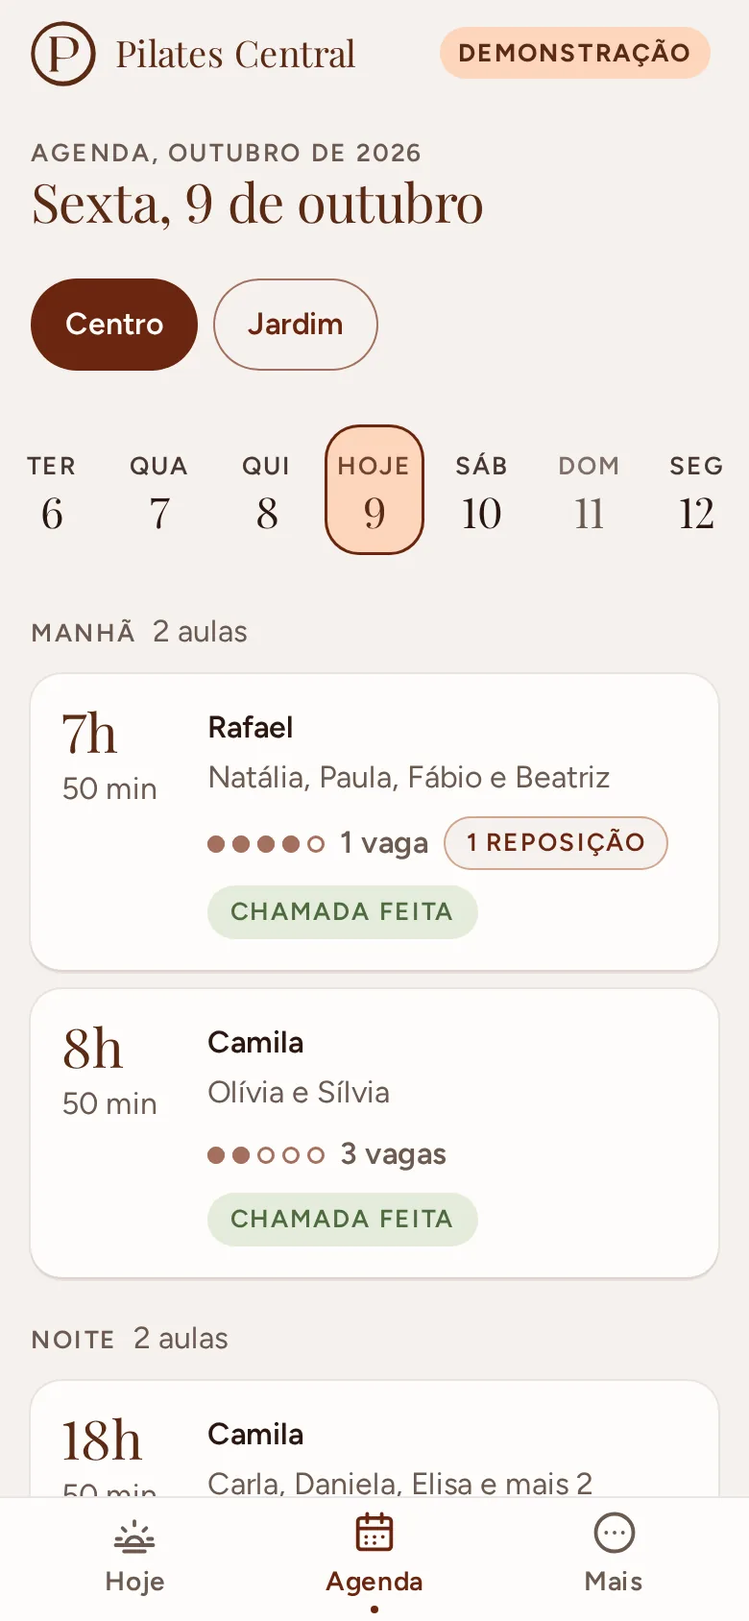
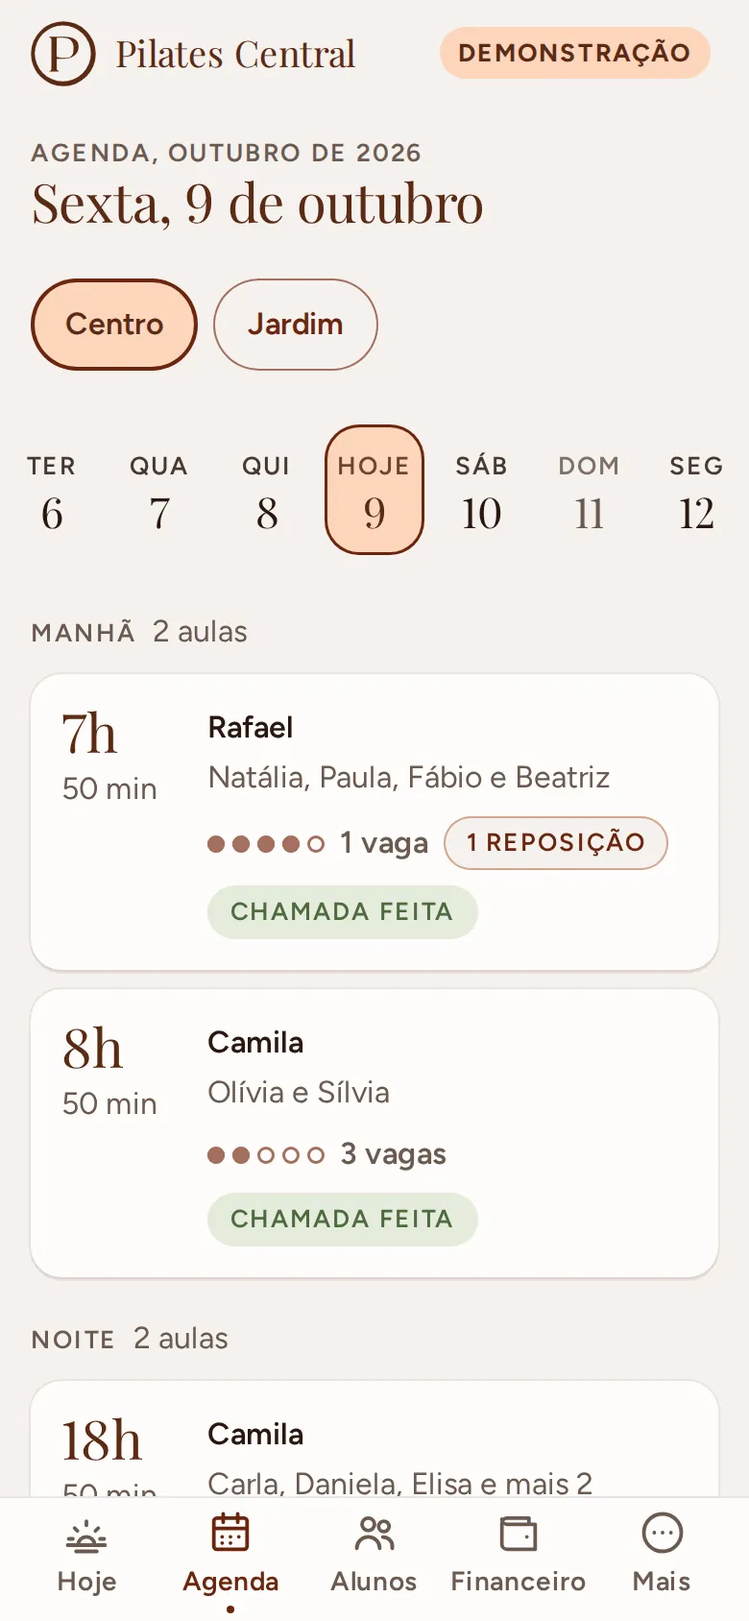
readme, roteiro e capturas da gestão do estúdio, com as medições novas

diff --git a/README.md b/README.md
@@ -1,7 +1,8 @@
 # Pilates Central (web app)
 
-Agenda, presença e reposição de aulas para um estúdio pequeno de pilates em Campinas, feito
-para a dona e os professores usarem no celular, com uma mão, entre uma aula e outra.
+Gestão de um estúdio pequeno de pilates em Campinas: agenda, presença, reposição, alunos, turmas
+e financeiro, feito para a administração e os professores usarem no celular, com uma mão, entre
+uma aula e outra.
 
 **Demonstração:** https://kohijow.github.io/pilates-central-web/
 
@@ -11,56 +12,115 @@ para a dona e os professores usarem no celular, com uma mão, entre uma aula e o
   <img src="docs/telas/agenda.webp" alt="Agenda do dia com vagas em pontos" width="200">
   <img src="docs/telas/chamada.webp" alt="Chamada da aula numa folha que sobe de baixo" width="200">
 </p>
+<p>
+  <img src="docs/telas/alunos.webp" alt="Lista de alunos com busca, filtros e o destaque de quem faltou várias seguidas" width="200">
+  <img src="docs/telas/ficha.webp" alt="Ficha do aluno com plano, turmas fixas e WhatsApp" width="200">
+  <img src="docs/telas/reposicoes.webp" alt="Central de reposição com o que vence primeiro no topo" width="200">
+  <img src="docs/telas/encaixe.webp" alt="Folha de encaixe com as aulas que têm vaga" width="200">
+</p>
+<p>
+  <img src="docs/telas/turmas.webp" alt="Grade da semana por unidade" width="200">
+  <img src="docs/telas/financeiro.webp" alt="Financeiro do mês: recebido, previsto e em aberto" width="200">
+  <img src="docs/telas/financeiro-grafico-escuro.webp" alt="Gráfico dos últimos seis meses no tema escuro" width="200">
+  <img src="docs/telas/equipe.webp" alt="Equipe com o papel de cada pessoa" width="200">
+</p>
 
 ## O que é
 
 O estúdio não precisa de app de treino: precisa saber quem vem em cada aula, quem faltou, quem
-avisou e onde encaixar a reposição, por unidade. Os alunos fazem duas ou três aulas por semana em
-horários fixos; quando alguém avisa que não vem, sai daquele dia e é encaixado em outro horário
-com vaga. Com isso a dona acompanha a frequência e, na próxima etapa, as mensalidades.
+avisou e onde encaixar a reposição, por unidade, e com isso acompanhar o que entra de dinheiro.
+Os alunos fazem duas ou três aulas por semana em horários fixos; quando alguém avisa que não vem,
+sai daquele dia e é encaixado em outro horário com vaga.
 
 É um **web app instalável** (PWA): abre no Safari do iPhone e no Chrome do Android, vai para a
 tela inicial sem loja e funciona sem internet no modo demonstração.
 
-### O que já faz (etapa 1)
+### O que faz
 
 - **Hoje:** próxima aula (ou a que está acontecendo), quantos alunos são esperados, quem avisou
   que não vem e as reposições do dia.
-- **Agenda:** faixa de dias, unidade, aulas por manhã, tarde e noite, com horário, professor,
-  alunos e vagas em pontos (com o número escrito ao lado). Desliza com o dedo para trocar de dia.
-- **Chamada:** tocar na aula abre a chamada numa folha que sobe de baixo: presente, faltou ou
-  avisou, com retorno na hora e "Desfazer". "Todos presentes" marca a turma num toque.
-- **Reposição:** avisar falta com antecedência gera um crédito; o crédito só entra em aula da
-  mesma unidade, dentro da validade e com vaga.
-- **Por papel:** a dona vê as duas unidades, cancela aula (feriado ou imprevisto) e pode dar
-  reposição a quem avisou em cima da hora; o professor vê as próprias aulas (ou a unidade toda).
-- **Ajustes:** tema claro, escuro ou automático; como instalar no celular; recomeçar a demonstração.
+- **Agenda e chamada:** faixa de dias, unidade, aulas por manhã, tarde e noite, vagas em pontos
+  (com o número escrito). Tocar na aula abre a chamada numa folha: presente, faltou ou avisou,
+  com "Desfazer"; "Todos presentes" num toque. Quem avisou no prazo ganha crédito e, ali mesmo,
+  "Encaixar em outro horário" mostra as aulas com vaga.
+- **Alunos:** lista com busca (sem acento, ou pelo final do telefone), filtro por unidade e
+  situação, e um destaque discreto para quem faltou várias seguidas. A ficha mostra plano, turmas
+  fixas (com aviso quando o plano 2x ou 3x não bate com as turmas), frequência do mês, créditos
+  de reposição, mensalidade e pagamentos, e atalhos para WhatsApp e ligação. Cadastro e edição
+  com validação em português; pausar (guarda o lugar nas turmas) e arquivar (libera o lugar).
+- **Turmas:** grade da semana por unidade, com lugares e frequência do mês. Criar turma, mudar
+  horário, lugares e professor, colocar e tirar alunos fixos respeitando a capacidade e o horário
+  de cada aluno, encerrar turma (o histórico fica).
+- **Reposição:** central com quem tem crédito (o que vence primeiro no topo, com "vence em 3
+  dias"), reposições marcadas e créditos vencidos. "Encaixar" mostra só as aulas com vaga da
+  unidade nos próximos 14 dias; escolher, confirmar e o aluno aparece na aula de destino como
+  reposição. Tudo com "Desfazer".
+- **Financeiro** (só a administração): mês por unidade com previsto, recebido, em aberto e alunos
+  ativos; quem está em aberto (atrasados primeiro) com lembrete pronto pelo WhatsApp e lançamento
+  rápido (valor sugerido pelo plano, forma preferida já marcada); totais por forma de pagamento
+  (Pix, cartões, dinheiro, transferência, Gympass, TotalPass, outro); gráfico dos últimos seis
+  meses; planilha do mês em CSV.
+- **Mais:** perfil, tema, instalar no celular e, para a administração, nome e WhatsApp do estúdio,
+  regras de reposição (antecedência do aviso, validade, limite por mês, a partir de quantas
+  ausências seguidas destacar), unidades e equipe.
+
+### Quem vê o quê
+
+| | Administração | Professor |
+|---|:-:|:-:|
+| Agenda, chamada, encaixar reposição | sim | sim |
+| Alunos e turmas | vê e edita | vê, sem valores |
+| Financeiro | sim | a aba não existe |
+| Cancelar aula, dar reposição fora do prazo | sim | não |
+| Estúdio, regras, unidades, equipe | sim | só lê as regras |
+
+"Administração" é quem responde pela conta (aparece como **Responsável**) e quem administra junto,
+com o mesmo acesso ao dia a dia, financeiro incluído. Só quem é responsável convida, promove ou
+tira alguém da administração e passa a conta para outra pessoa. Nesta etapa a separação é feita
+na interface; no banco ela vira regra do Firestore na etapa 3 (ver [roteiro](docs/roteiro.md)).
 
 ## Como usar a demonstração
 
-1. Abra o link e escolha **Explorar como administração** ou **Explorar como professor**.
-2. Os dados são fictícios (nomes genéricos, e-mails em example.com) e ficam guardados só no seu
-   aparelho. Em **Mais > Recomeçar demonstração** tudo volta ao começo.
+1. Abra o link e escolha **Explorar como administração** ou **Explorar como professor** (ou
+   **Entrar como outra pessoa da equipe** para ver a administração sem ser a responsável).
+2. Os dados são fictícios (nomes genéricos, e-mails em example.com, telefones 55 11 90000-00xx)
+   e ficam guardados só no seu aparelho. Em **Mais > Recomeçar demonstração** tudo volta ao começo.
 3. Para ver um dia cheio a qualquer hora, fixe o relógio pela URL:
    `?agora=2026-10-09T10:00` (sexta-feira, 10h em Campinas). `?atraso=1500` simula rede lenta.
+4. Bons caminhos: **Alunos > Reposições > Encaixar**; **Financeiro > Lançar** num aluno em aberto;
+   **Agenda > 18h > Avisou > Encaixar em outro horário**; **Mais > Equipe > Passar a conta**.
 
 ## Decisões
 
-- **Web app em vez de app de loja.** A dona e muitos alunos usam iPhone; um PWA instala pela
-  tela inicial, atualiza sozinho e não precisa de conta de desenvolvedor nem revisão de loja.
+- **Web app em vez de app de loja.** A administração e muitos alunos usam iPhone; um PWA instala
+  pela tela inicial, atualiza sozinho e não precisa de conta de desenvolvedor nem revisão de loja.
 - **Preact com sinais.** API quase igual à do React (que o dono do projeto já usa no React
   Native), com uma fração do tamanho; `@preact/signals` deixa o estado reativo sem biblioteca de estado.
 - **Regras puras, dados atrás de uma interface.** `src/dominio/` não sabe de onde vêm os dados;
   `src/dados/repositorio.ts` é o contrato e hoje há o adaptador de demonstração (localStorage).
-  O do Firebase entra na etapa 2 sem mexer em tela nem em regra.
+  O do Firebase entra sem mexer em tela nem em regra.
 - **A aula é derivada da turma.** Só as exceções são gravadas (presenças, avisos, reposições,
-  cancelamento). Detalhes em [docs/modelo-de-dados.md](docs/modelo-de-dados.md).
-- **Relógio do estúdio.** Datas são texto no fuso de Campinas; um celular com outro fuso não
-  embaralha a agenda.
-- **Desfazer em vez de confirmar.** Marcar presença não pergunta "tem certeza?": aplica na hora e
-  oferece "Desfazer", que reverte só o que aquela ação mudou.
-- **Permissões numa tabela só** (`src/dominio/permissoes.ts`), que a tela consulta e as regras
-  do Firestore vão seguir.
+  cancelamento). Quem entra numa turma entra a partir daquele dia (`fixosDesde`): as aulas que já
+  passaram não mudam. Detalhes em [docs/modelo-de-dados.md](docs/modelo-de-dados.md).
+- **O financeiro mora fora do cadastro do aluno.** Mensalidade, forma preferida e vencimento
+  ficam em `FinanceiroDoAluno`: no Firestore uma regra libera ou nega o documento inteiro, então o
+  que o professor não pode ler tem que estar em outro documento. O professor nunca pede esses dados.
+- **Papéis sem gênero.** "Responsável" e "Administração" em vez de "dona": quem cuida da conta
+  pode ser qualquer pessoa da família, e mais de uma pessoa administra. As regras da equipe
+  (`src/dominio/equipe.ts`) recebem quem está agindo e recusam as tentativas de escalada, com teste
+  para cada uma.
+- **Desfazer em vez de confirmar.** Marcar presença, encaixar, tirar da turma ou lançar pagamento
+  aplica na hora e oferece "Desfazer", que reverte só o que aquela ação mudou, calculado na hora
+  de desfazer. Confirmação só para o que tira gente do lugar (arquivar, encerrar turma, passar a
+  conta).
+- **Telas empilhadas com "Voltar" escrito.** O app instalado no iPhone não tem o botão de voltar
+  do navegador; ficha e formulários abrem por cima da lista (com histórico, então o "voltar" do
+  Android também funciona) e a lista volta para onde estava.
+- **Escolhas nativas onde ajudam.** Data, hora e listas usam o seletor do próprio celular (a roda
+  do iPhone); números pequenos (lugares, duração, dias) têm botões de menos e mais, sem teclado.
+- **Uma terracota por tela.** Filtros e escolhas ficaram em pêssego com contorno; o terracota
+  sólido é só da ação principal (com filtros e botão principal juntos, três blocos terracota
+  disputavam a atenção).
 
 ### Movimento
 
@@ -70,54 +130,64 @@ A fluidez no celular é requisito, não enfeite. Regras: só `transform` e `opac
 durante cada transição e reprovam qualquer animação de outra propriedade.
 
 Medições no Chromium (perfil Pixel 7), p95 dos intervalos entre quadros durante a animação
-(60 Hz = 16,7 ms). Com a CPU 4x mais lenta, duas rodadas, e à parte o quadro em que a tela nova
-é montada e pintada, antes de a animação começar:
+(60 Hz = 16,7 ms):
 
 | Transição | Normal | CPU 4x mais lenta | Quadro de montar (CPU 4x) |
 |---|---|---|---|
-| Troca de aba | 16,8 ms | 16,8 a 33,3 ms | 100 a 150 ms |
-| Troca de dia pela faixa | 16,8 ms | 16,8 ms | 33 a 67 ms |
-| Troca de dia com o dedo | 16,7 ms | 16,7 a 16,8 ms | 16,7 ms |
-| Abrir a folha da aula | 16,7 ms | 33,3 a 33,4 ms | 50 a 67 ms |
-| Marcar presença e aviso flutuante | 16,8 ms | 16,7 a 16,8 ms | 50 a 83 ms |
-| Fechar a folha arrastando | 16,8 ms | 16,8 a 33,3 ms | 16,7 ms |
-| Troca de tema (View Transition) | 16,8 ms | 16,7 a 33,3 ms | 33 a 50 ms |
+| Troca de aba | 16,8 ms | 16,7 a 16,8 ms | 83 a 100 ms |
+| Troca de dia pela faixa | 16,7 ms | 16,7 a 16,8 ms | 16,7 ms |
+| Troca de dia com o dedo | 16,8 ms | 16,8 ms | 16,7 ms |
+| Abrir a folha da aula | 16,8 ms | 16,7 a 16,8 ms | 50 ms |
+| Marcar presença e aviso flutuante | 16,8 ms | 16,7 a 16,8 ms | 33 a 50 ms |
+| Fechar a folha arrastando | 16,8 ms | 16,8 ms | 16,7 ms |
+| Troca de tema (View Transition) | 16,8 ms | 16,7 a 16,8 ms | 17 a 33 ms |
+| Abrir a ficha do aluno | 16,7 ms | 16,8 ms | 83 ms |
+| Voltar da ficha para a lista | 16,7 ms | 16,7 ms | 83 a 100 ms |
+| Troca de seção (Alunos, Turmas, Reposições) | 16,7 ms | 16,8 ms | 50 ms |
+| Abrir a folha de encaixe | 16,8 ms | 16,8 ms | 16,7 ms |
+| Escolher a aula no encaixe | 16,7 ms | 16,8 ms | 16,7 ms |
+| Troca de mês no financeiro (colunas crescem) | 16,7 ms | 16,8 a 33,3 ms | 50 ms |
+
+Com a CPU 4x mais lenta foram duas rodadas; "quadro de montar" é o quadro em que a tela nova é
+montada e pintada, antes de a animação começar. Os vídeos das transições (`GRAVAR=1`) foram
+olhados quadro a quadro nos dois motores.
 
 Medido no contêiner do Playwright, num servidor ARM de 4 núcleos dividido com outros processos.
 No WebKit desse contêiner não há GPU e tudo é pintado na CPU: até a régua (uma camada sem nada do
-app animando só transform e opacity) deu p95 entre 50 e 190 ms conforme a carga da máquina. Lá os
+app animando só transform e opacity) dá p95 de 50 a 190 ms conforme a carga da máquina. Lá os
 tempos ficam registrados no relatório do teste, e o que reprova é animar outra propriedade.
 
-O que as medições mudaram:
+O que as medições mudaram (etapas 1 e 2):
 
-- **Sombra sem desfoque nos cards.** No WebKit, a sombra com desfoque de 24 px do briefing
-  levava a 2,5 s o quadro de pintar uma tela nova; com a sombra tingida sem desfoque (borda de
-  1 px e 2 px embaixo) o mesmo quadro caiu para 250 a 400 ms no mesmo ambiente.
+- **Sombra sem desfoque nos cards.** No WebKit, a sombra com desfoque de 24 px do briefing levava
+  a 2,5 s o quadro de pintar uma tela nova; com a sombra tingida sem desfoque, 250 a 400 ms.
 - **A animação começa depois de pintar.** Em aparelho lento, montar a tela nova pode levar mais
   que um quadro; se a animação começasse junto, o movimento "pularia".
-- **Troca de aba em CSS, não em View Transition.** No Chromium a View Transition teve picos de
-  33 ms e bloqueia o toque enquanto roda; a animação em CSS ficou em 16,8 ms e não bloqueia.
-  A View Transition ficou como melhoria progressiva na troca de tema (Chromium). No WebKit dos
-  testes a captura da tela travou a página por segundos; até ser medida num iPhone de verdade
-  (`?transicao=vista` força), Safari e Firefox trocam o tema sem transição.
-- **Um bloco se move por vez.** A cascata das listas só acontece quando os dados chegam; numa
-  troca de tela ou de dia quem desliza é o bloco inteiro.
-- **Pílula do dia em pêssego.** Com a pílula terracota sólida deslizando, o número do dia sumia
-  por alguns quadros (texto claro sobre o creme); no pêssego o texto é escuro nos dois fundos.
+- **Troca de aba e de tela em CSS, não em View Transition.** No Chromium a View Transition teve
+  picos de 33 ms e bloqueia o toque enquanto roda. Ela ficou só na troca de tema (Chromium); no
+  WebKit dos testes a captura da tela travou a página por segundos, então Safari e Firefox trocam
+  o tema sem transição até a medição num iPhone de verdade (`?transicao=vista` força).
+- **Barras e gráfico por transform.** A barra do recebido e as colunas do gráfico crescem por
+  `scaleX`/`scaleY`, nunca por largura ou altura; a marca da seção escolhida (Alunos, Turmas,
+  Reposições) desliza como a pílula do dia.
+- **Listas longas com "Mostrar todos".** Em aberto, lançamentos e créditos mostram os primeiros e
+  um botão para o resto: menos para pintar de uma vez e menos rolagem com uma mão.
 
 ## Acessibilidade
 
 Pensada para gente de 40+ usando com uma mão: alvos de toque de 48 px ou mais, texto corrido de
-16 px ou mais, contraste de 4,5:1 conferido por teste sobre os próprios tokens de cor (o âmbar
-nunca é texto; o terracota médio só aparece em ícone), estado nunca só por cor (vagas têm número
-escrito, presença tem ícone e rótulo), folha com foco preso e o resto do app inerte, barra de
-abas com rótulo sempre visível.
+16 px ou mais (conferidos por teste em todas as telas, inclusive as de gestão e as folhas),
+contraste de 4,5:1 conferido por teste sobre os próprios tokens de cor (o âmbar nunca é texto; o
+terracota médio só aparece em ícone; as cores do gráfico passam 3:1 sobre o card nos dois temas),
+estado nunca só por cor (vagas têm número escrito, presença tem ícone e rótulo, atraso tem
+palavra), folha com foco preso e o resto do app inerte, formulário que leva o foco ao primeiro
+erro, contador de números lido como spinbutton, gráfico com tabela para leitor de tela.
 
 ## Stack
 
 Vite, TypeScript estrito, Preact, @preact/signals, CSS próprio com variáveis (sem biblioteca de
 componentes), Figtree e Playfair Display servidas pelo próprio site (@fontsource), service worker
-escrito à mão, Vitest e @playwright/test. Firebase (Auth e Firestore, plano gratuito) na etapa 2.
+escrito à mão, Vitest e @playwright/test. Firebase (Auth e Firestore, plano gratuito) na etapa 3.
 
 ## Como rodar
 
@@ -148,8 +218,9 @@ podman run --rm --network host -v "$PWD":/w:Z -w /w --ipc=host \
   mcr.microsoft.com/playwright:v1.60.0-noble npx playwright test
 ```
 
-`LENTO=1` liga a CPU 4x mais lenta no Chromium e `GRAVAR=1` grava vídeo das transições.
-No GitHub Actions cada motor roda num job e, na `main`, o site é publicado no Pages.
+`PORTA=8853` troca a porta (prévia e testes), `LENTO=1` liga a CPU 4x mais lenta no Chromium e
+`GRAVAR=1` grava vídeo das transições. No GitHub Actions cada motor roda num job e, na `main`, o
+site é publicado no Pages.
 
 ## Segurança e privacidade
 
@@ -158,31 +229,40 @@ No GitHub Actions cada motor roda num job e, na `main`, o site é publicado no P
   site; o único script embutido (o que aplica o tema antes da primeira pintura) entra por hash.
 - Os dados de exemplo são fictícios: nomes genéricos, e-mails em example.com, telefones
   55 11 90000-00xx. As fotos do espaço no repositório não têm pessoas.
-- Na etapa 2, os dados reais ficam no Firestore com regras por papel (professor não lê
-  financeiro), testadas no emulador antes de existir projeto real. Nenhuma chave privada no
-  repositório: a configuração web do Firebase é pública por desenho e a proteção são as regras.
+- Observação do aluno é texto livre que só a equipe vê; não há ficha de saúde estruturada.
+- A planilha exportada não deixa nome de aluno virar fórmula no Excel (`=`, `+`, `-` e `@` no
+  começo ganham um apóstrofo).
+- Na etapa 3, os dados reais ficam no Firestore com regras por papel (professor não lê financeiro,
+  administrador não mexe em quem administra), testadas no emulador antes de usar o projeto real.
+  Nenhuma chave privada no repositório: a configuração web do Firebase é pública por desenho e a
+  proteção são as regras.
 
 ## Estrutura
 
 ```
 src/
-  dominio/     regras puras e testadas (agenda, presença, reposição, resumo, pagamentos, permissões)
-  dados/       contrato do repositório, adaptador de demonstração, dados fictícios, estado em sinais
+  dominio/     regras puras e testadas (agenda, presença, reposição, frequência, alunos, turmas,
+               pagamentos, equipe, unidades, permissões)
+  dados/       contrato do repositório, adaptador de demonstração, dados fictícios, estado em
+               sinais, ações de cadastro com desfazer, consultas de frequência
   movimento/   molas, tempos, gestos, animação depois de pintar, retorno de toque
-  componentes/ botão, campo, chip, card, folha inferior, faixa de dias, vagas, avisos, ícones
-  telas/       Entrar, Hoje, Agenda, chamada e Ajustes
-  estilos/     tokens, base, componentes, telas e movimento
+  componentes/ botão, campo, seletor, contador, chip, card, folha inferior, seções, faixa de dias,
+               vagas, avisos, ícones
+  telas/       Entrar, Hoje, Agenda e chamada, Alunos (lista, ficha, cadastro), Turmas,
+               Reposição, Financeiro, Mais (estúdio, regras, unidades, equipe)
+  estilos/     tokens, base, componentes, telas, gestão e movimento
   pwa/         modelo do service worker
-e2e/           testes de ponta a ponta e de fluidez
+e2e/           testes de ponta a ponta, de acessibilidade e de fluidez
 scripts/       plugin do service worker e da política de segurança; geração de ícones
 docs/          roteiro, modelo de dados e capturas de tela
 ```
 
 ## Roteiro
 
-Etapa 1 (esta): fundação, agenda e presença. Etapa 2: alunos, financeiro e Firebase. Etapa 3:
-o aluno remarca a própria aula e a página pública de aula experimental. Detalhes e o que falta
-em [docs/roteiro.md](docs/roteiro.md).
+Etapa 1: fundação, agenda e presença. Etapa 2 (esta): gestão do estúdio (alunos, turmas,
+reposição, presença, financeiro, unidades, equipe e configurações). Etapa 3: login e regras do
+Firestore, o aluno remarca a própria aula e a página pública de aula experimental. Detalhes e o que
+falta em [docs/roteiro.md](docs/roteiro.md).
 
 ## Créditos
 

diff --git a/docs/roteiro.md b/docs/roteiro.md
@@ -55,7 +55,7 @@ trabalho precisa saber. Atualizar a cada entrega.
 - [x] Playwright em dois projetos (Chromium com Pixel 7, WebKit com iPhone 13): entrada, agenda, chamada, hoje, PWA, acessibilidade (alvos de 48 px, texto de 16 px, folha inerte, reduzir movimento) e fluidez (intervalos de quadro e propriedades animadas)
 - [x] GitHub Actions: tipos, lint, Vitest, build, ponta a ponta nos dois motores e publicação no Pages
 
-## Etapa 2: gestão do estúdio (em andamento)
+## Etapa 2: gestão do estúdio (feita)
 
 ### Papéis e dados
 - [x] Papéis sem gênero: titular (aparece como "Responsável"), administrador e professor; titular e administradores formam a "Administração", com o mesmo acesso ao dia a dia, financeiro incluído (`src/dominio/permissoes.ts`)
@@ -67,13 +67,21 @@ trabalho precisa saber. Atualizar a cada entrega.
 - [x] Demonstração versão 2: responsável, uma pessoa na administração e 3 professores; histórico desde o começo do mês anterior (com o trecho antigo num sorteio separado, para as três semanas recentes ficarem iguais às da etapa 1); seis meses de mensalidades; um aluno com três faltas seguidas
 
 ### Telas
-- [ ] Alunos: lista com busca e filtros, ficha, cadastro e edição, pausar e arquivar, WhatsApp
-- [ ] Turmas: grade da semana por unidade, criar e editar, alunos fixos com capacidade, aviso de plano x turmas
-- [ ] Reposição: central com créditos a vencer e vencidos, encaixe a partir do crédito, desfazer
-- [ ] Presença: frequência do mês por aluno e por turma, destaque de ausências seguidas
-- [ ] Financeiro (administração): lançar pagamento, resumo do mês por unidade, em aberto com lembrete pelo WhatsApp, gráfico de 6 meses, planilha do mês
-- [ ] Unidades, equipe e configurações (administração)
-- [ ] Professor: agenda, alunos sem valores, chamada e reposição; sem financeiro nem ajustes do estúdio
+- [x] Navegação com telas empilhadas por aba (`#/alunos/a-10/editar`), "Voltar" escrito em toda subtela, histórico do navegador (o "voltar" do Android funciona) e a lista voltando para a mesma rolagem (`src/app/navegacao.ts`)
+- [x] Abas por papel: administração com Hoje, Agenda, Alunos, Financeiro e Mais; professor sem Financeiro (link direto cai no Hoje)
+- [x] Alunos: lista com busca sem acento ou pelo final do telefone, filtros de unidade e situação, destaque discreto de ausências seguidas e de plano x turmas; ficha com plano, turmas fixas, frequência do mês (e do mês passado), créditos, mensalidade e pagamentos, WhatsApp e ligar; cadastro e edição com validação em português e foco no primeiro erro; mensalidade sugerida pelo valor mais comum do plano; pausar e arquivar com confirmação e desfazer
+- [x] Turmas: grade da semana por unidade com lugares e frequência do mês; criar e editar (horário, duração, lugares, professor) com conflito de horário do professor; colocar e tirar aluno fixo respeitando capacidade e horário do aluno, com desfazer; encerrar com confirmação e desfazer
+- [x] Reposição: central com para encaixar (o que vence primeiro no topo), marcadas (as que já aconteceram ficam como feitas) e vencidas; folha de encaixe só com aulas com vaga da unidade nos próximos 14 dias, escolher e confirmar, com desfazer; na chamada, "Encaixar em outro horário" logo depois do aviso; limite de reposições por mês com cortesia da administração
+- [x] Presença: frequência por aluno (ficha) e por turma (grade e detalhe) no mês; ausências seguidas com limite configurável
+- [x] Financeiro: mês e unidade, previsto, recebido (com barra), em aberto, ativos; em aberto com atrasados primeiro, lembrete pelo WhatsApp e lançamento rápido; por forma de pagamento; gráfico de 6 meses tocável com tabela para leitor de tela; lançamentos com apagar e desfazer; planilha CSV do mês
+- [x] Mais: nome e WhatsApp do estúdio, regras de reposição com prévia do texto, unidades (criar, editar, fechar só sem turmas e alunos), equipe (convidar, editar, promover, tirar acesso, passar a conta) com o papel escrito
+- [x] Professor: agenda, alunos sem valores, chamada e reposição; sem financeiro nem ajustes do estúdio (só lê as regras de reposição)
+- [ ] Cancelar o dia inteiro de uma vez (feriado móvel): hoje cancela-se aula por aula
+- [ ] Aviso de "versão nova disponível" do service worker
+
+### Testes
+- [x] Vitest: regras novas (alunos, turmas, frequência, equipe com tentativas de escalada, unidades, financeiro do mês, planilha, lembrete, limite do mês, encaixe a partir do crédito) e dados da demonstração versão 2
+- [x] Playwright nos dois motores: alunos, turmas, reposição, financeiro (inclusive o CSV baixado), equipe e papéis, auditoria de alvos de 48 px e texto de 16 px em todas as telas de gestão e folhas, fluidez das transições novas (abrir ficha, voltar, seção, folha de encaixe, escolher aula, troca de mês)
 
 ## Etapa 3: login, regras do Firestore, aluno e página pública (a fazer)
 
@@ -98,4 +106,9 @@ trabalho precisa saber. Atualizar a cada entrega.
 - **Arrastar nos testes:** usar `arrastar()` de `e2e/apoio.ts`, que move um passo a cada 16 ms; o movimento instantâneo do Playwright vira "arremesso" e fecha a folha.
 - **Nada de cor animada:** o teste de fluidez reprova qualquer animação ou transição que não seja de transform ou opacity.
 - **Sombras:** cards usam a sombra sem desfoque (`--sombra-1`); desfoque grande só em elemento único (folha, aviso).
-- **Conteúdo do repositório:** sem travessão, sem ponto médio, sem nomes reais, sem trechos de conversa com a cliente, sem fotos com pessoas. E-mails só `@example.com`, telefones `55119000000xx`.
+- **Conteúdo do repositório:** sem travessão, sem ponto médio, sem nomes reais, sem trechos de conversa com a cliente, sem fotos com pessoas. E-mails só `@example.com`, telefones `55119000000xx` (exemplos na tela usam `(19) 90000-0000`).
+- **Papéis:** no código `titular`, `administrador` e `professor`; na tela "Responsável", "Administração" e "Professor". Toda regra de equipe recebe quem está agindo (`src/dominio/equipe.ts`); as regras do Firestore devem repetir as mesmas recusas, e `equipe.test.ts` tem a lista de tentativas de escalada para virar teste de regra no emulador.
+- **Financeiro separado:** `FinanceiroDoAluno` (coleção `financeiroDosAlunos` proposta) só é pedido por quem pode ver financeiro (`carregarFinanceiro` em `src/dados/estado.ts`). O adaptador do Firebase precisa manter isso: o professor nem tenta ler.
+- **Desfazer:** ações de cadastro passam por `gravarComDesfazer` com um inverso calculado na hora de desfazer (por exemplo, tirar da turma só o aluno colocado). No Firebase, alunos fixos com `arrayUnion`/`arrayRemove` para duas pessoas não apagarem a mudança uma da outra.
+- **Dados da demonstração:** versão 2 (`VERSAO_DO_BANCO`); quem tinha a versão 1 no aparelho ganha dados novos ao abrir. As três semanas recentes são as mesmas da etapa 1 (os testes conhecem: sexta 9/10, 18h com Camila tem 5 de 6; Ana Almeida tem 4 ausências seguidas; outubro tem R$ 10.660,00 previstos e R$ 5.590,00 recebidos).
+- **Telas em teste:** para esperar uma tela nova parar, `esperarParado(page, '.tela-quadro')`; `irPara(page, '#/rota')` abre pelo endereço; `irParaSecao` troca Alunos, Turmas e Reposições.
